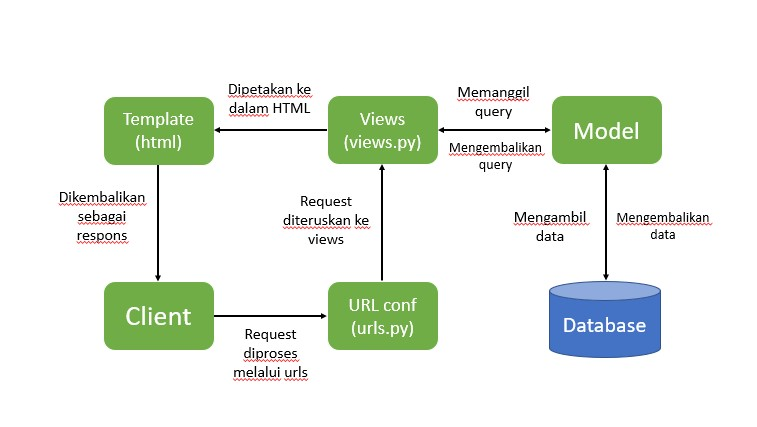
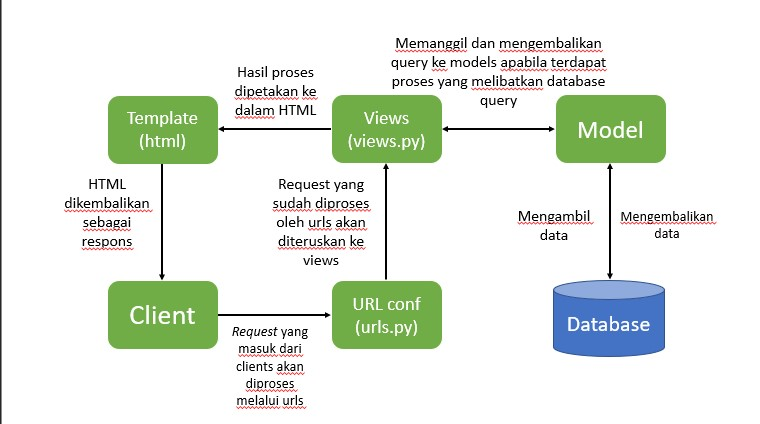
bagan tugas 2

diff --git a/project_django/urls.py b/project_django/urls.py
@@ -21,5 +21,3 @@ urlpatterns = [
     path('', include('example_app.urls')),
     path('katalog/', include('katalog.urls'))
 ]
-
-# TODO: Implement Routings Here

diff --git a/README.md b/README.md
@@ -1,5 +1,5 @@
-**Nama   : Alizha**
-**NPM    : 2106652000**
+**Nama   : Alizha**,
+**NPM    : 2106652000**,
 **Kelas  : D**
 
 ## TUGAS 2 - PBP
@@ -9,4 +9,14 @@ __Buatlah bagan yang berisi request client ke web aplikasi berbasis Django beser
 
 __Jelaskan kenapa menggunakan virtual environment? Apakah kita tetap dapat membuat aplikasi web berbasis Django tanpa menggunakan virtual environment?__
 
-   *Virtual environment* adalah _tools_ yang digunakan sebagai wadah untuk mengenkapsulasi serta menampung *package* atau *library* agar tetap terisolasi. Virtual environment dibutuhkan dan berperan penting dalam pembuatan aplikasi *web* untuk mencegah adanya *issues dependency* yang dapat terjadi akibat adanya pembaruan perbedaan versi pada *external library* dari *project* yang satu dengan yang lainnya. Singkatnya, jika kita tidak menggunakan *virtual environtment*, maka kita tidak dapat bekerja menggunakan dua *library* dengan versi yang berbeda. Namun, kita masih tetap dapat membuat aplikasi *web* berbasis Django tanpa menggunakan 
+   *Virtual environment* adalah _tools_ yang digunakan sebagai wadah untuk mengenkapsulasi serta menampung *package* atau *library* agar tetap terisolasi. Virtual environment dibutuhkan dan berperan penting dalam pembuatan aplikasi *web* untuk mencegah adanya *issues dependency* yang dapat terjadi akibat adanya pembaruan perbedaan versi pada *external library* dari *project* yang satu dengan yang lainnya. Singkatnya, jika kita tidak menggunakan *virtual environtment*, maka kita tidak dapat bekerja menggunakan dua *library* dengan versi yang berbeda. Namun, kita masih tetap dapat membuat aplikasi *web* berbasis Django tanpa menggunakan virtual environment, tetapi saat kita sedang mengerjakan project secara individu, bukan sebagai tim. karena jika mengerjakan project sebagai tim tanpa environment, akan sulit apabila masing-masing individu dalam tim memiliki modul atau versi yang berbeda-beda.
+
+__Jelaskan bagaimana cara kamu mengimplementasikan poin 1 sampai dengan 4 di atas__
+
+* Hal pertama yang saya lakukan untuk melakukan pengambilan data dari model adalah membuat *function* show_catalog yang menerima parameter request pada *file* views.py yang terdapat pada *folder* katalog dan me*return* render(request, 'katalog.html', context). Data yang ada pada parameter ketiga yaitu variabel context tersebut akan ikut di*render* untuk memunculkan data pada halaman HTML.
+
+* Selanjutnya, saya membuat *routing* untuk memetakan fungsi yang telah dibuat pada views.py, sehingga nantinya halaman HTML dapat ditampilkan pada *browser*, yaitu dengan membuat variabel app_name yang berisikan string katalog, serta membuat variabel url_patterns berisikan list berupa path dengan *route* '' dan fungsi show_catalog dari  views.py dengan argumen 'show_catalog' pada urls.py yang terdapat pada *folder* templates. Setelah itu, aplikasi katalog didaftarkan ke dalam urls.py yang ada pada *folder* project_django dengan menambahkan path('katalog/', include('katalog.urls')) pada variabel url_patterns.
+
+* Selanjutnya, data yang didapatkan, yaitu data yang telah diolah pada models  perlu dipetakan pada katalog.html dengan menambahkan kode { Name } dan { Student_ID }, dan mengisi field pada *template* dengan memanggil method/atribut yang ada pada class catalog_items pada file models.py yang nantinya akan ditampilkan pada halaman HTML.
+
+* Kemudian, yang dilakukan pertama kali saat *deployment* adalah *create new app*. Lalu setelah itu, saya menuliskan nama aplikasi yang akan di*deploy*. Pada tugas ini, saya menggunakan nama tugas2-alizha sebagai nama dari aplikasinya. Setelah aplikasi telah diberi nama, tambahkan Config Vars dengan variabel bernama HEROKU_APP_NAME dan SECRET_KEY sebagai *key*, nama aplikasi dan *key secrets*nya sebagai *value*. Selanjutnya, tambahkan *file* dpl.yml yaitu berkas yang digunakan untuk mengeksekusi *deployment* oleh *runner* di GitHub Actions. Setelah itu, hubungkan *repository-repository* yang ada di github lalu deploy dengan pilih Deploy Branch.
